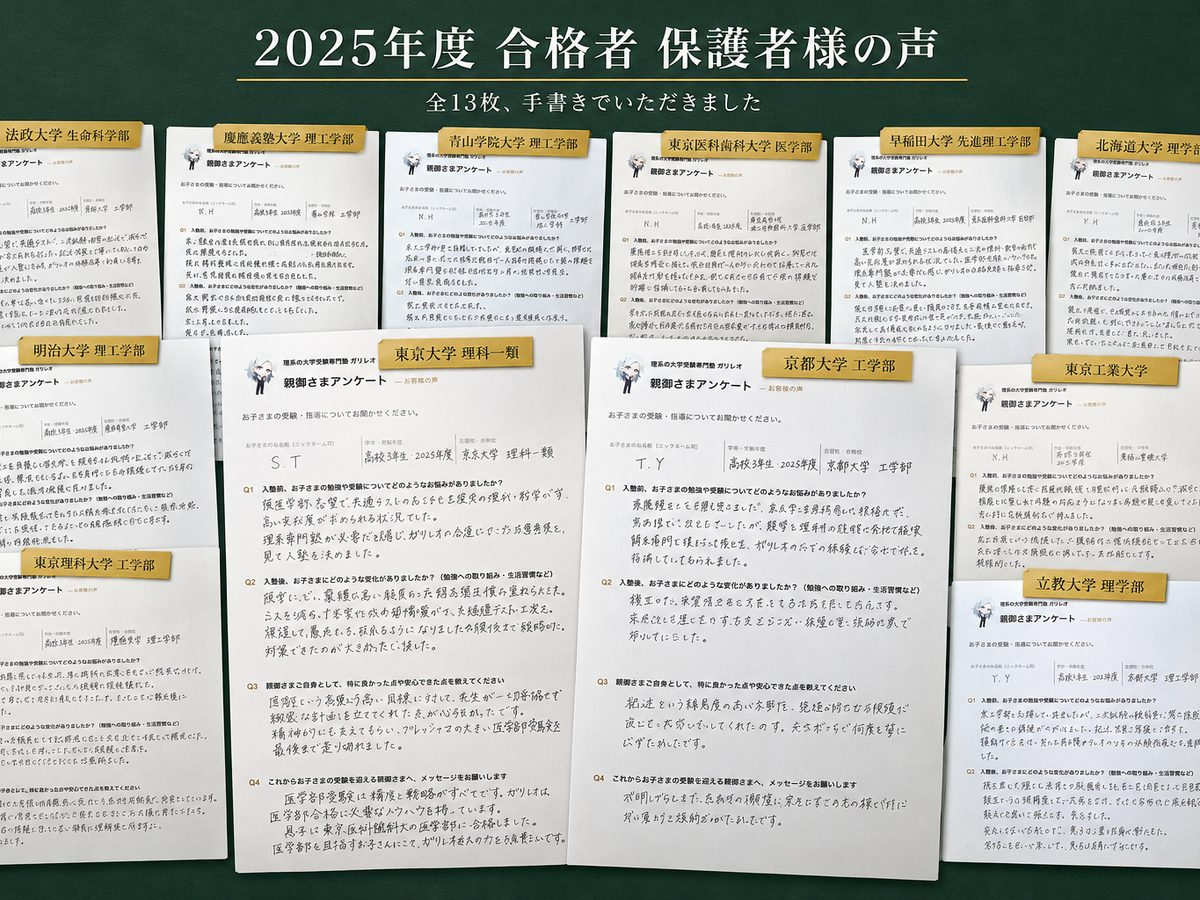
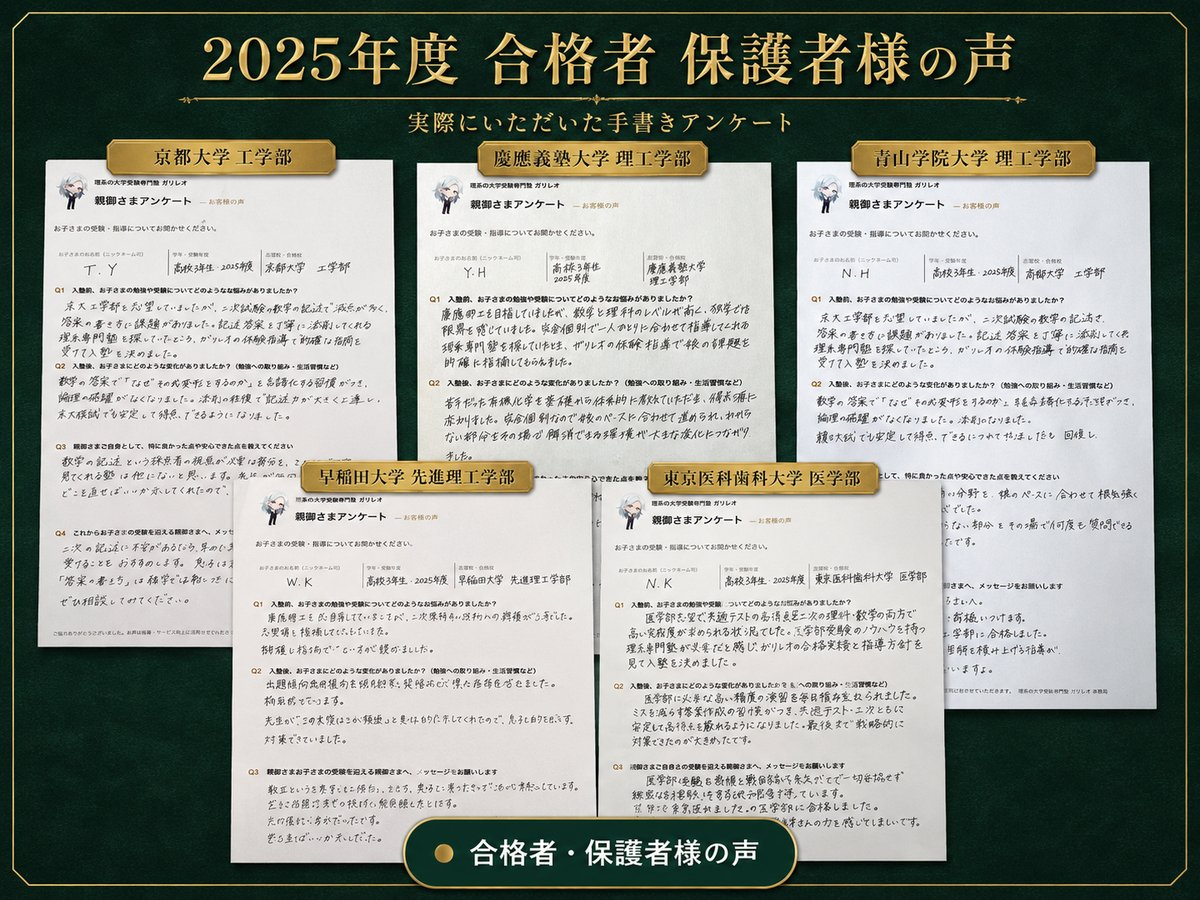
「合格者・保護者様の声」を手書きアンケート5枚のボード画像に差し替え
- 濃緑背景＋大学名ゴールドバッジ付きの合成画像（提供素材）に更新
- 画像内にキャプションが含まれるため、HTML側のキャプションピルを削除

Claude-Session: https://claude.ai/code/session_01Gw9KkzfywA5A1p8Mn5n3Qg

diff --git a/index.html b/index.html
@@ -1309,7 +1309,7 @@ a.news-item{text-decoration:none;color:inherit;cursor:pointer}
       <div class="gallery-item"><img src="img/gallery-2-suii.jpg" alt="偏差値推移のイメージ" loading="lazy" width="1200" height="900"><span class="gallery-cap">偏差値推移</span></div>
       <div class="gallery-item"><img src="img/gallery-4-feedback.jpg" alt="学習ポイントのフィードバック" loading="lazy" width="1200" height="900"><span class="gallery-cap">学習ポイントのフィードバック</span></div>
       <div class="gallery-item"><img src="img/gallery-5-kadai.jpg" alt="毎日課題の配信" loading="lazy" width="1200" height="900"><span class="gallery-cap">毎日課題の配信</span></div>
-      <div class="gallery-item"><img src="img/gallery-6-voices.jpg" alt="合格者・保護者様の声" loading="lazy" width="1200" height="900"><span class="gallery-cap">合格者・保護者様の声</span></div>
+      <div class="gallery-item"><img src="img/gallery-6-voices.jpg" alt="2025年度 合格者 保護者様の声（手書きアンケート）" loading="lazy" width="1200" height="900"></div>
     </div>
   </div>
 </section>
